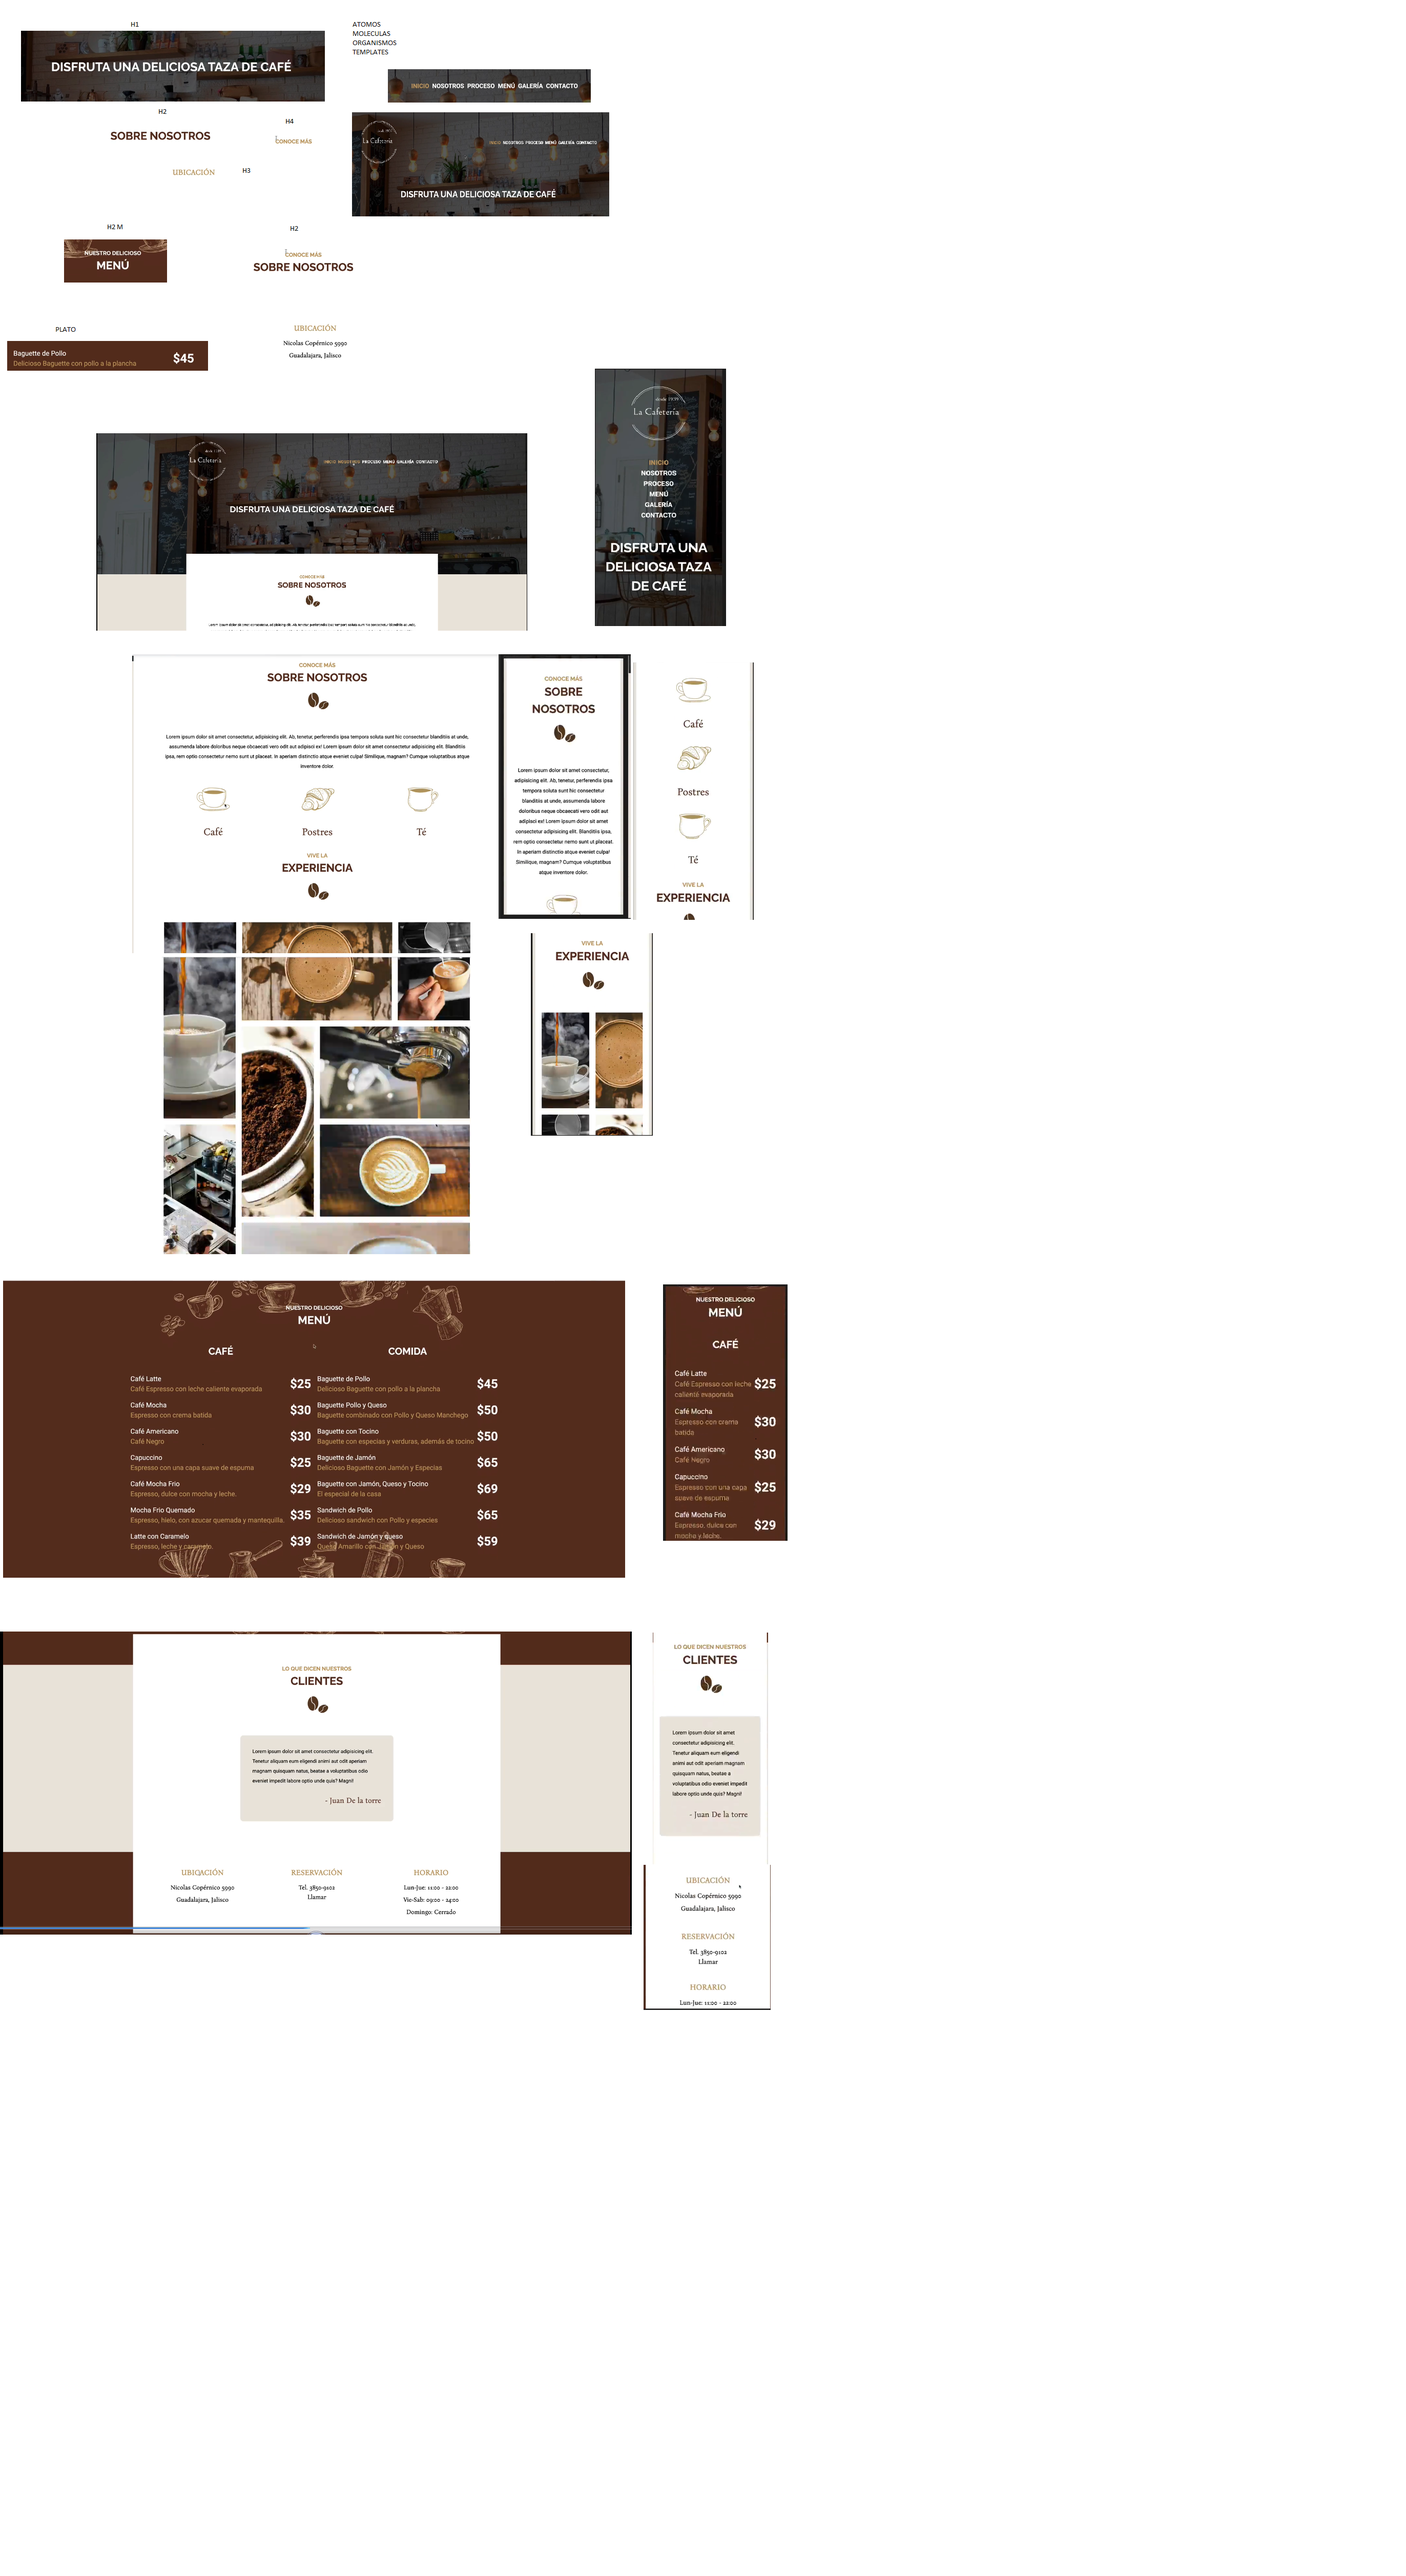
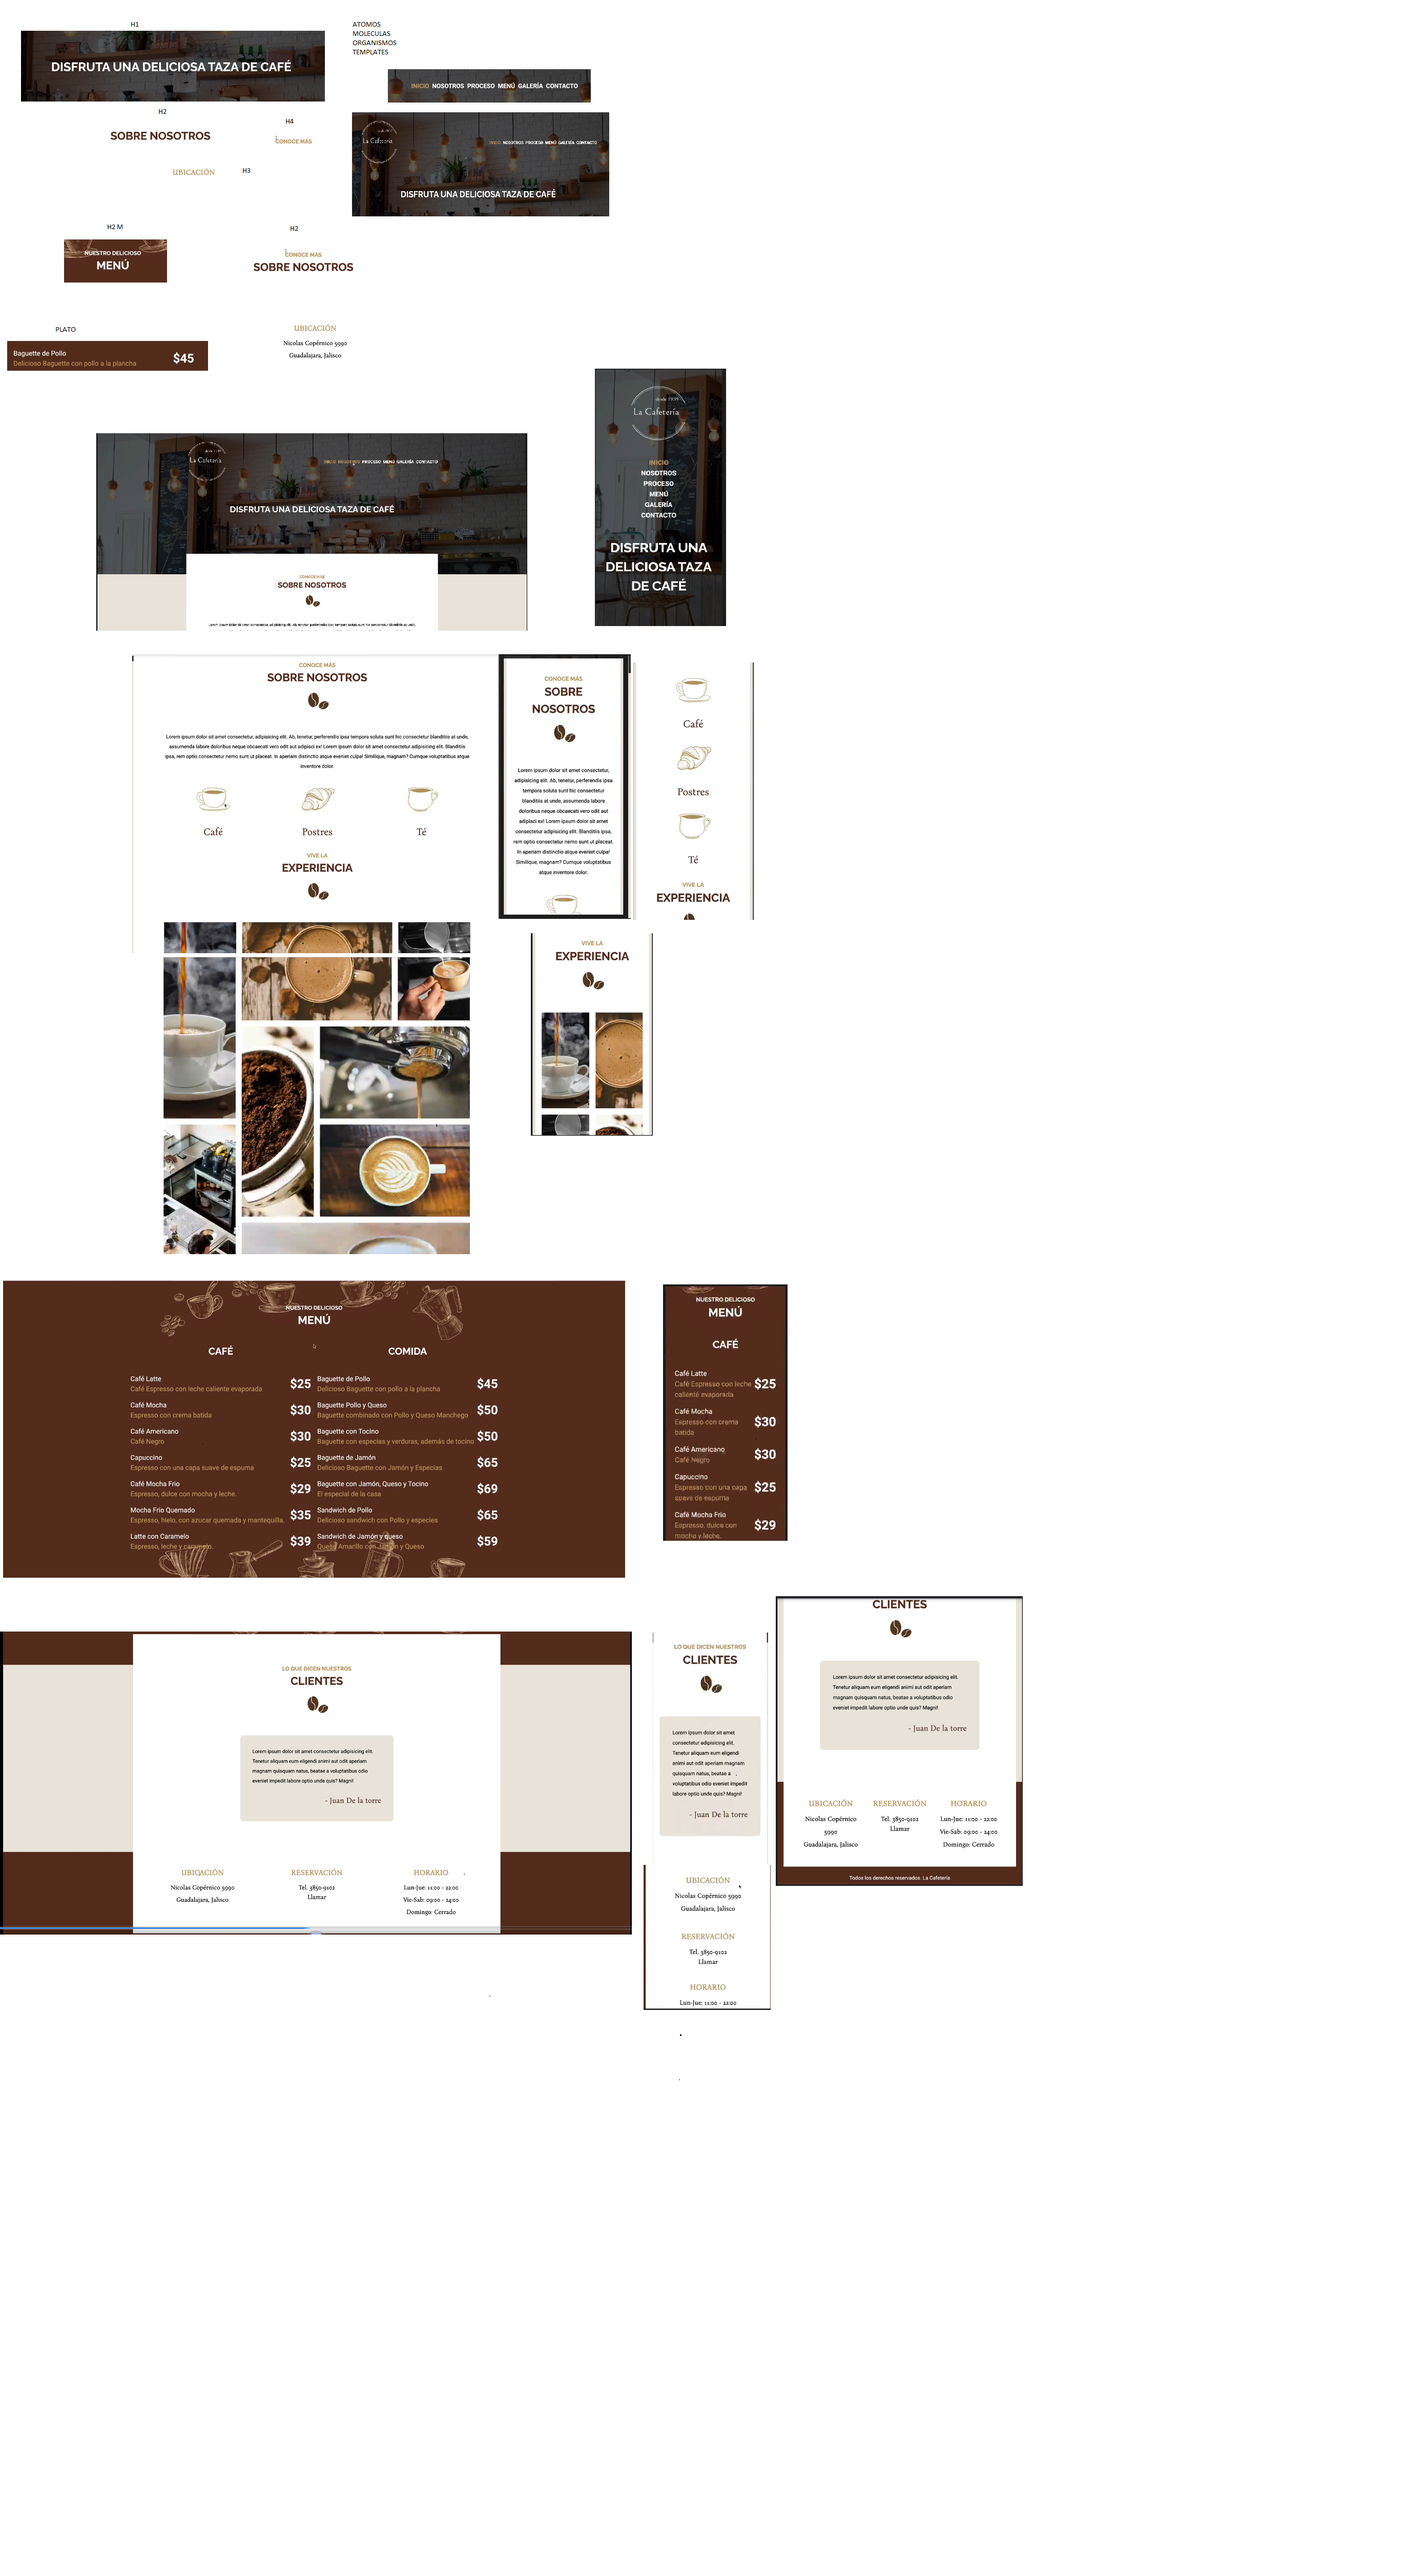
Proyecto 5 Cafeteria Finalizado pagina de inicio

Changed region(s): [[0.5266, 0.5938, 0.7434, 0.75]]

diff --git a/Cafeteria/index.html b/Cafeteria/index.html
@@ -4,6 +4,8 @@
 <head>
     <meta charset="UTF-8">
     <meta name="viewport" content="width=device-width, initial-scale=1.0">
+    <link rel="preconnect" href="https://fonts.gstatic.com" crossorigin>
+    <link href="https://fonts.googleapis.com/css2?family=Bona+Nova:ital@1&display=swap" rel="stylesheet">
     <title>Cafeteria</title>
     <link rel="stylesheet" href="./styles/reset.css">
     <link rel="stylesheet" href="./styles/style.css">
@@ -14,16 +16,21 @@
     <link rel="stylesheet" href="./styles/atoms/links.css">
     <!-- Moleculas css -->
     <link rel="stylesheet" href="./styles/molecules/nav.css">
+    <link rel="stylesheet" href="./styles/molecules/location.css">
     <link rel="stylesheet" href="./styles/molecules/navbar.css">
     <link rel="stylesheet" href="./styles/molecules/subtitle.css">
     <link rel="stylesheet" href="./styles/molecules/service.css">
     <link rel="stylesheet" href="./styles/molecules/dish.css">
     <link rel="stylesheet" href="./styles/molecules/galery.css">
+    <link rel="stylesheet" href="./styles/molecules/post.css">
+    <link rel="stylesheet" href="./styles/molecules/footer.css">
     <!-- Organismos css -->
     <link rel="stylesheet" href="./styles/organisms/header.css">
     <link rel="stylesheet" href="./styles/organisms/services.css">
     <link rel="stylesheet" href="./styles/organisms/card.css">
     <link rel="stylesheet" href="./styles/organisms/menu.css">
+    <link rel="stylesheet" href="./styles/organisms/location.css">
+    <link rel="preconnect" href="https://fonts.googleapis.com">
 </head>
 
 <body>
@@ -107,13 +114,13 @@
         <!---------------- GALERY ----------->
     </main>
     <!---------------- MAIN ----------->
-    
+
     <!---------------- MENU ----------->
     <section class="menu">
         <div class="menu__container">
             <div class="menu__subtitle">
                 <h4 class="menu__subtitle--white">NUESTRO DELICIOSO</h4>
-                <h2 class="menu__subtitle--white">MENÚ</h2>                
+                <h2 class="menu__subtitle--white">MENÚ</h2>
             </div>
             <div class="menu__grid">
                 <!---------------- DISH ----------->
@@ -201,8 +208,60 @@
     </section>
     <!---------------- MENU ----------->
 
+    <!---------------- ABOUT  ----------->
+    <section class="about">
+        <div class="about__container">
+            <div class="card card--about">
+                <div class="card__subtitle">
+                    <h4>LO QUE DICEN NUESTROS</h4>
+                    <h2>CLIENTES</h2>
+                </div>
+                <img src="./assets/img/cafe.svg" alt="cafe" class="card__icon">
 
-    <br><br><br><br><br><br><br><br><br><br><br><br><br><br><br><br><br><br><br><br><br><br><br><br><br><br><br><br><br><br>
+                <div class="post">
+                    <p class="post__description post__description--left">
+                        Lorem ipsum, dolor sit amet consectetur adipisicing elit. Excepturi, corrupti ipsum unde porro
+                        in voluptates sed reiciendis quia earum ad minima delectus maxime assumenda magni distinctio
+                        iure ex animi? Reprehenderit?
+                        Officia, debitis qui? Earum impedit atque officia labore consequuntur ex perferendis quaerat, ut
+                        velit non in beatae dolore quisquam est repellendus omnis assumenda facere. A aspernatur
+                        molestias velit quae soluta.
+                    </p>
+                    <span class="post__author post__author--right">
+                        Juan De la Torre
+                    </span>
+                </div>
+            </div>
+        </div>
+    </section>
+    <!---------------- ABOUT ----------->
+
+    <!---------------- FOOTER ----------->
+    <footer class="footer">
+        <div class="footer__container">
+            <div class="location">
+                <div class="location__group">
+                    <h3 class="location__title">UBICACIÓN</h3>
+                    <p class="location__content">Nicolas Coper 59990 Jalisco</p>
+                </div>
+                <div class="location__group">
+                    <h3 class="location__title">RESERVACIÓN</h3>
+                    <p class="location__content">Tel. <a href="tel:+38050-9102" class="tel">38050-9102</a>
+                        <br>Llamar
+                    </p>
+                </div>
+                <div class="location__group">
+                    <h3 class="location__title">HORARIO</h3>
+                    <p class="location__content">
+                        Lun-Juev 11:00 - 22:00 <br>
+                        Vie-Sab 09:00 - 23:00
+                    </p>
+                </div>
+            </div>
+        </div>
+        <p class="footer__content--center">Todos los derechos reservados la cafeteria</p>
+    </footer>
+    <!---------------- FOOTER ----------->
 </body>
 
 </html>

diff --git a/Cafeteria/components.html b/Cafeteria/components.html
@@ -14,6 +14,8 @@
     <link rel="stylesheet" href="./styles/atoms/links.css">
     <!-- Moleculas css -->
     <link rel="stylesheet" href="./styles/molecules/menu.css">
+    <link rel="stylesheet" href="./styles/molecules/post.css">
+    <link rel="stylesheet" href="./styles/molecules/location.css">
     <link rel="stylesheet" href="./styles/molecules/navbar.css">
     <link rel="stylesheet" href="./styles/molecules/subtitle.css">
     <link rel="stylesheet" href="./styles/molecules/service.css">
@@ -23,6 +25,7 @@
     <link rel="stylesheet" href="./styles/organisms/services.css">
     <link rel="stylesheet" href="./styles/organisms/card.css">
     <link rel="stylesheet" href="./styles/organisms/menu.css">
+    <link rel="stylesheet" href="./styles/organisms/location.css">
 
     <style>
         body {
@@ -173,6 +176,43 @@
         </div>
     </div>
 
+    target
+
+    <span class="__author">
+        Juan De la Torre
+    </span>
+    <p class="__description">
+        Lorem ipsum, dolor sit amet consectetur adipisicing elit. Excepturi, corrupti ipsum unde porro in voluptates sed reiciendis quia earum ad minima delectus maxime assumenda magni distinctio iure ex animi? Reprehenderit?
+        Officia, debitis qui? Earum impedit atque officia labore consequuntur ex perferendis quaerat, ut velit non in beatae dolore quisquam est repellendus omnis assumenda facere. A aspernatur molestias velit quae soluta.
+    </p>
+
+    <div class="post">
+        <p class="post__description">
+            Lorem ipsum, dolor sit amet consectetur adipisicing elit. Excepturi, corrupti ipsum unde porro in voluptates sed reiciendis quia earum ad minima delectus maxime assumenda magni distinctio iure ex animi? Reprehenderit?
+        Officia, debitis qui? Earum impedit atque officia labore consequuntur ex perferendis quaerat, ut velit non in beatae dolore quisquam est repellendus omnis assumenda facere. A aspernatur molestias velit quae soluta.
+        </p>
+        <span class="post__author post__author--right">
+            Juan De la Torre
+        </span>
+    </div>
+
+    <div class="location__group">
+        <h3 class="location__title">UBICACIÓN</h3>
+        <p class="location__content">Nicolas Coper 59990 Jalisco</p>
+    </div>
+
+    <div class="location">
+        <div class="location__group">
+            <h3 class="location__title">UBICACIÓN</h3>
+            <p class="location__content">Nicolas Coper 59990 Jalisco</p>
+        </div>
+        <div class="location__group">
+            <h3 class="location__title">UBICACIÓN</h3>
+            <p class="location__content">Nicolas Coper 59990 Jalisco</p>
+        </div>
+    </div>
+
+    
 
 
     <br><br><br><br><br><br><br><br><br><br><br><br><br><br><br><br><br><br><br><br><br><br><br><br><br><br><br><br><br><br>

diff --git a/Cafeteria/styles/atoms/texts.css b/Cafeteria/styles/atoms/texts.css
@@ -19,3 +19,46 @@ p.dish__description{
 .price::before{
     content: "$ ";
 }
+
+[class*="__author"]{
+    color: var(--first-color);
+    font-size: var(--step-2);
+    display: block;    
+}
+[class*="__author"]::before{
+    content: "- ";
+}
+
+[class$="--right"]{    
+    text-align: right;
+}
+[class$="--left"]{    
+    text-align: left;
+}
+[class$="--center"]{    
+    text-align: center;
+}
+
+[class$="__description"]{
+    color: var(--black-colors);
+    font-size: var(--step-1);
+    line-height: 2;
+}
+
+.location__title{
+    color: var(--second-color);
+    font-weight: bold;
+}
+.location__content{
+    text-align: center;
+    padding: 1rem 0;
+    color: var(--black-color);
+}
+
+.tel{
+    color: var(--black-color);
+    text-decoration: none;
+}
+
+
+

diff --git a/Cafeteria/styles/organisms/menu.css b/Cafeteria/styles/organisms/menu.css
@@ -1,7 +1,7 @@
 @import url('../style.css');
 
 .menu{
-    padding: 10rem 0;
+    padding: 15rem 0;
     background-color: var(--first-color);
     background-image: url('../../assets/img/menu_arriba.svg'),url('../../assets/img/menu_abajo.svg');
     background-size: 50%;

diff --git a/Cafeteria/styles/organisms/card.css b/Cafeteria/styles/organisms/card.css
@@ -10,4 +10,10 @@
     .card{
         margin-top: -20rem;
     }
+    .card--about{
+        margin-top: -5rem;              
+    }
+    .card--footer{
+        margin-top: 0;
+    }
 }

diff --git a/Cafeteria/styles/molecules/post.css b/Cafeteria/styles/molecules/post.css
@@ -1,0 +1,8 @@
+@import url('../style.css');
+
+.post{
+    padding: 2rem;
+    background-color: var(--second-light-color);
+    border-radius: 10px;
+    margin-top: 2rem;
+}

diff --git a/Cafeteria/styles/organisms/location.css b/Cafeteria/styles/organisms/location.css
@@ -1,0 +1,8 @@
+.location{
+    display: flex;
+    justify-content: space-evenly;
+    flex-wrap: wrap;
+    gap: 2rem;
+    padding: 5rem 0;
+    background-color: white;
+}

diff --git a/Cafeteria/styles/molecules/location.css b/Cafeteria/styles/molecules/location.css
@@ -1,0 +1,8 @@
+
+.location__group{
+    width: 20rem;
+    display: flex;
+    flex-direction: column;
+    gap: 1rem;
+    font-family: 'Bona Nova', serif;
+}

diff --git a/Cafeteria/styles/molecules/footer.css b/Cafeteria/styles/molecules/footer.css
@@ -1,0 +1,6 @@
+@import url('../style.css');
+
+.footer{
+    background-color: var(--first-color);
+    color: var(--white-color);
+}
